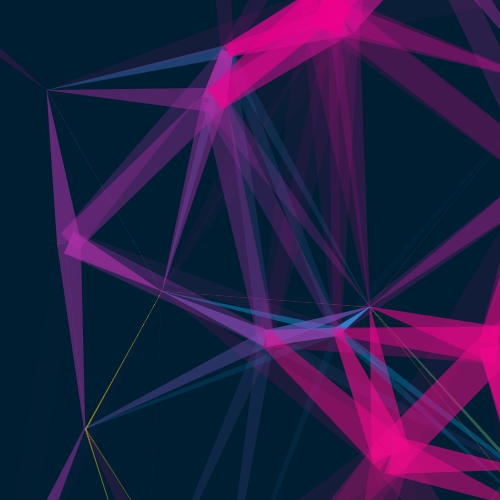
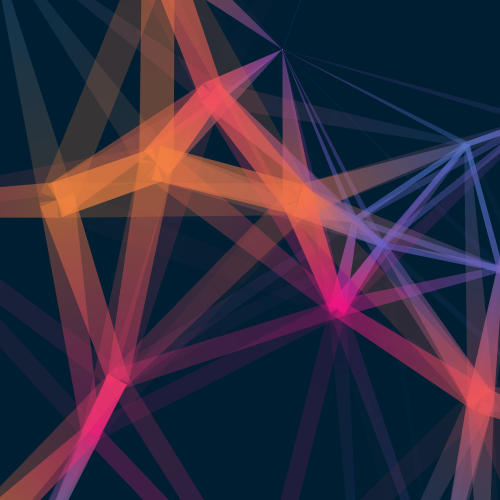
fixed gradient poly bug

diff --git a/20160106/sketch.js b/20160106/sketch.js
@@ -30,34 +30,7 @@ function draw(){
         var a = (1 - (dist / connectRadius)) * 255;
         var colorA = color(red(points[i].c), green(points[i].c), blue(points[i].c), a);
         var colorB = color(red(points[j].c), green(points[j].c), blue(points[j].c), a);
-        //gradientLine(points[i].x, points[i].y, points[j].x, points[j].y, colorA, colorB);
-
-        // fill(255,a);
-        // beginShape();
-        // var linehalf = points[i].d / 2;
-        // var xvec = ydiff/dist;
-        // var yvec = 0 - xdiff/dist;
-        // var xdist = xvec * linehalf;
-        // var ydist = yvec * linehalf;
-        // vertex(points[i].x + xdist, points[i].y + ydist);
-        // vertex(points[i].x - xdist, points[i].y - ydist);
-        // linehalf = points[j].d / 2;
-        // xdist = xvec * linehalf;
-        // ydist = yvec * linehalf;
-        // vertex(points[j].x - xdist, points[j].y - ydist);
-        // vertex(points[j].x + xdist, points[j].y + ydist);
-        // endShape(CLOSE);
-
         drawPoly(points[i], points[j], xdiff, ydiff, colorA, colorB);
-
-        // drawPolygon([
-        // { x: 100, y: 200 },
-        // { x: 200, y: 100 },
-        // { x: 300, y: 200 },
-        // { x: 250, y: 300 },
-        // { x: 150, y: 300 }
-        // ]);
-
       }
     }
     // check for dead points
@@ -75,32 +48,10 @@ function draw(){
   deadpoints = [];
 }
 
-
-
-
-function getLinearGradient() {
-  var grdient = this.drawingContext.createLinearGradient(50, 50, 350, 50);
-  grdient.addColorStop(0, "rgb(255,128,0)");
-  grdient.addColorStop(1, "rgb(50,0,0)");
-  return grdient;
-}
-function drawPolygon(points) {
-  this.drawingContext.fillStyle = getLinearGradient();
-  this.drawingContext.beginPath();
-  this.drawingContext.moveTo(points[0].x, points[0].y);
-  for (var i = 1; i < points.length; i++) {
-    this.drawingContext.lineTo(points[i].x, points[i].y);
-  }
-  this.drawingContext.closePath();
-  //this.DrawingContext.globalAlpha = polygon.AlphaFill / 255;
-  this.drawingContext.fill();
-  //this.DrawingContext.globalAlpha = polygon.AlphaStroke / 255;
-}
-
 function drawPoly(pointA, pointB, xdiff, ydiff, colorA, colorB){
   var grad = this.drawingContext.createLinearGradient(pointA.x, pointA.y, pointB.x, pointB.y);
   grad.addColorStop(0, colorA);
-  grad.addColorStop(0, colorB);
+  grad.addColorStop(1, colorB);
   this.drawingContext.fillStyle = grad;
 
   var dist = Math.sqrt(xdiff*xdiff + ydiff*ydiff);
